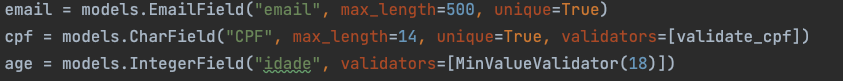
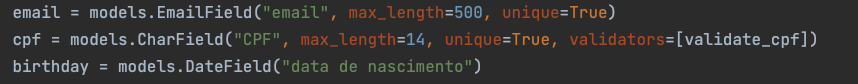
docs: validate birthday

Changed region(s): [[0.0, 0.3457, 0.9561, 0.5679], [0.0, 0.6667, 0.8019, 0.9136], [0.0, 0.0247, 0.7402, 0.2469]]

diff --git a/README.md b/README.md
@@ -111,16 +111,21 @@ servirão para outros casos (se a aplicação fizesse o uso de forms, por exempl
 
 ![Validators](prints/validators.png "Validators")
 
-Apenas a validação de que o CPF não pode ser alterado é feita no serializer, através do método padrão 
-`validate_field_name`.
+No serializer, existem duas validações, feitas no método padrão `validate_field_name`:
+- O CPF não pode ser alterado, através do método padrão.
+- A idade do candidato deve ser maior ou igual a 18 anos.
+
+![Serializer](prints/serializer.png "Serializer")
+
+Esse é o serializer que será utilizado para a API:
+
+![Serializer](prints/serializer2.png "Serializer")
 
 Uma outra abordagem que poderia ser feita no serializer, seria criar uma classe `CandidateBaseSerializer`, que conteria
 todos os campos comuns do serializer. Após isso, eu poderia ter dois srializers: 
 `CandidateCreateSerializer(CandidateBaseSerializer)` e `CandidateDetailSerializer(CandidateBaseSerializer)`. A 
 única diferença entre eles dois seria o fato do CPF ser um `ReadOnlyField` no serializer de Detail. Isso é bastante 
 comum em diversos projetos.
-
-![Serializer](prints/serializer.png "Serializer")
 
 Uma curiosidade é que eu poderia ter utilizado alguns campos como `CPFField()` que existem numa lib que eu 
 criei https://github.com/gabrielloliveira/django-cpf.
